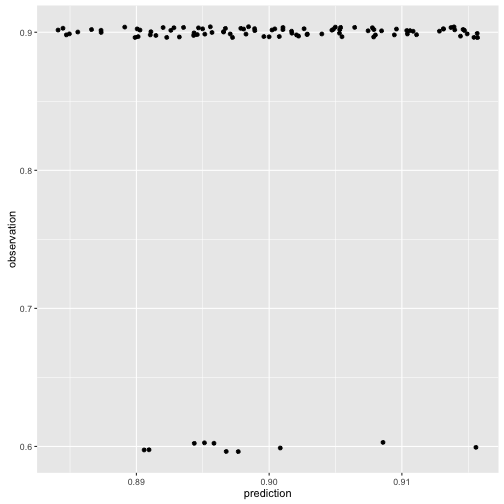
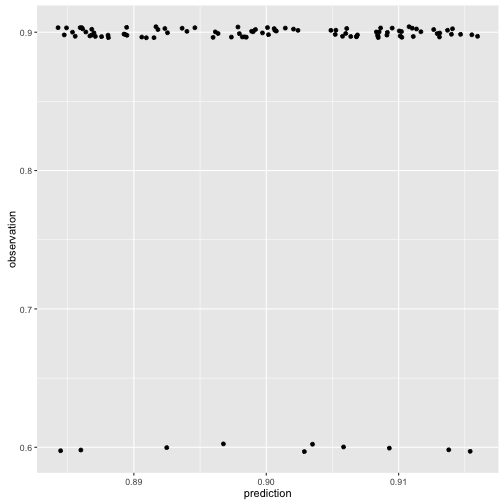
blog post minor edits

diff --git a/_posts/2017-02-27-CorrelationMultinomial.md b/_posts/2017-02-27-CorrelationMultinomial.md
@@ -1,6 +1,6 @@
 ---
 layout: post
-title: "Measuring model fit for categorical data with correlation scores? - Not such a good idea."
+title: "Measuring model fit for categorical data with correlation scores? - Probably not such a good idea."
 date:   2017-02-27
 categories: statistics, modeling
 status: publish
@@ -8,13 +8,10 @@ published: true
 ---
  
 
-{% highlight text %}
-## Loading required package: magrittr
-{% endhighlight %}
  
 ### Why this post
  
-I have recently seen a number of studies report on the quality of model fits in terms of correlation scores, where the data to be explained are categorical choice frequencies. I have succumbed to this myself. It is not a good idea. Here are some considerations why.
+A number of papers recently crossed my path that reported on a computational model's goodness-of-fit in terms of correlation scores, where the data to be explained were frequencies of a discrete (categorical) choice task. Inspired by others (though this is a very lame excuse), I have occasionally adopted this practice myself. But: it is not a good idea. Here are some considerations why.
  
 ### What's multinomial data?
  
@@ -123,7 +120,7 @@ show(qplot(pred, obs) + ylab("observation") + xlab('prediction'))
 ![plot of chunk unnamed-chunk-5](/mfpics/2017-02-27-CorrelationMultinomial.Rmd/unnamed-chunk-5-1.png)
  
  
-The correlation score of 0.9718 is very high (and immensely significant). We are heading towards a publication here!
+The correlation score of 0.9712 is very high (and immensely significant). We are heading towards a publication here!
  
 But wait a minute. Actually, half of our prediction values are superfluous in a sense. If we predict choice probability $p$ for one option, the model must predict $1-p$ for the other, of course. Similarly if the observed choice frequency of one option is $f$, that of the other must be $1-f$. So what happens if we scrap the redundant part of our data? Let's grab the predictions and frequencies for only one of the two options:
  
@@ -136,7 +133,7 @@ show(qplot(predInd, obsInd) + ylab("observation") + xlab('prediction'))
 
 ![plot of chunk unnamed-chunk-6](/mfpics/2017-02-27-CorrelationMultinomial.Rmd/unnamed-chunk-6-1.png)
  
-That doesn't look like a tremendous achievement anymore and, indeed, the correlation score is a poor man's 0.0743. 
+That doesn't look like a tremendous achievement anymore and, indeed, the correlation score is a poor man's -0.0315. 
  
 Bottomline: if we look at what the model predicts for both choice options, we get a very high correlation. But predictions and observations for one choice option fully determine the other, so this part of the information seems entirely redundant. Yet, if we leave it out, our measure of glory plummets. What to make of this?
  
@@ -188,3 +185,7 @@ A model which predicts this for 100 conditions (like assumed above) should be se
 What this means is that even though for each condition the model's prediction is, let's say, not very good, by exploiting the fact that half of the frequency observations are a linear function of the other half, and likewise for the predictions, we get a perfect correlation score. The model is devilishly dubious, but the corrlation rocks heavenly!
  
 This problem also affects the previous case where we had most predictions coincide with the observed frequencies, of course. If every condition had 20 observations, the surprise of predicting .9 and observing 12 out of 20 does persist. From a likelihood perspective the model is shaky while the correlation is high.
+ 
+#### Conclusion
+ 
+Here are just a few examples that gesture towards the conceptual inadequacy of correlation scores as measures of model fit for categorical data. This does not speak to the case where a model predicts a metric variable (e.g., ordinary linear regression), where correlation scores have a clear interpretation and their use a clear rationale. Another issue not touched by any of the above is: what else to use to measure goodness-of-fit of a model for categorical data. Rescaled likelihood suggests itself, and I hope to be able to write about this soon.
